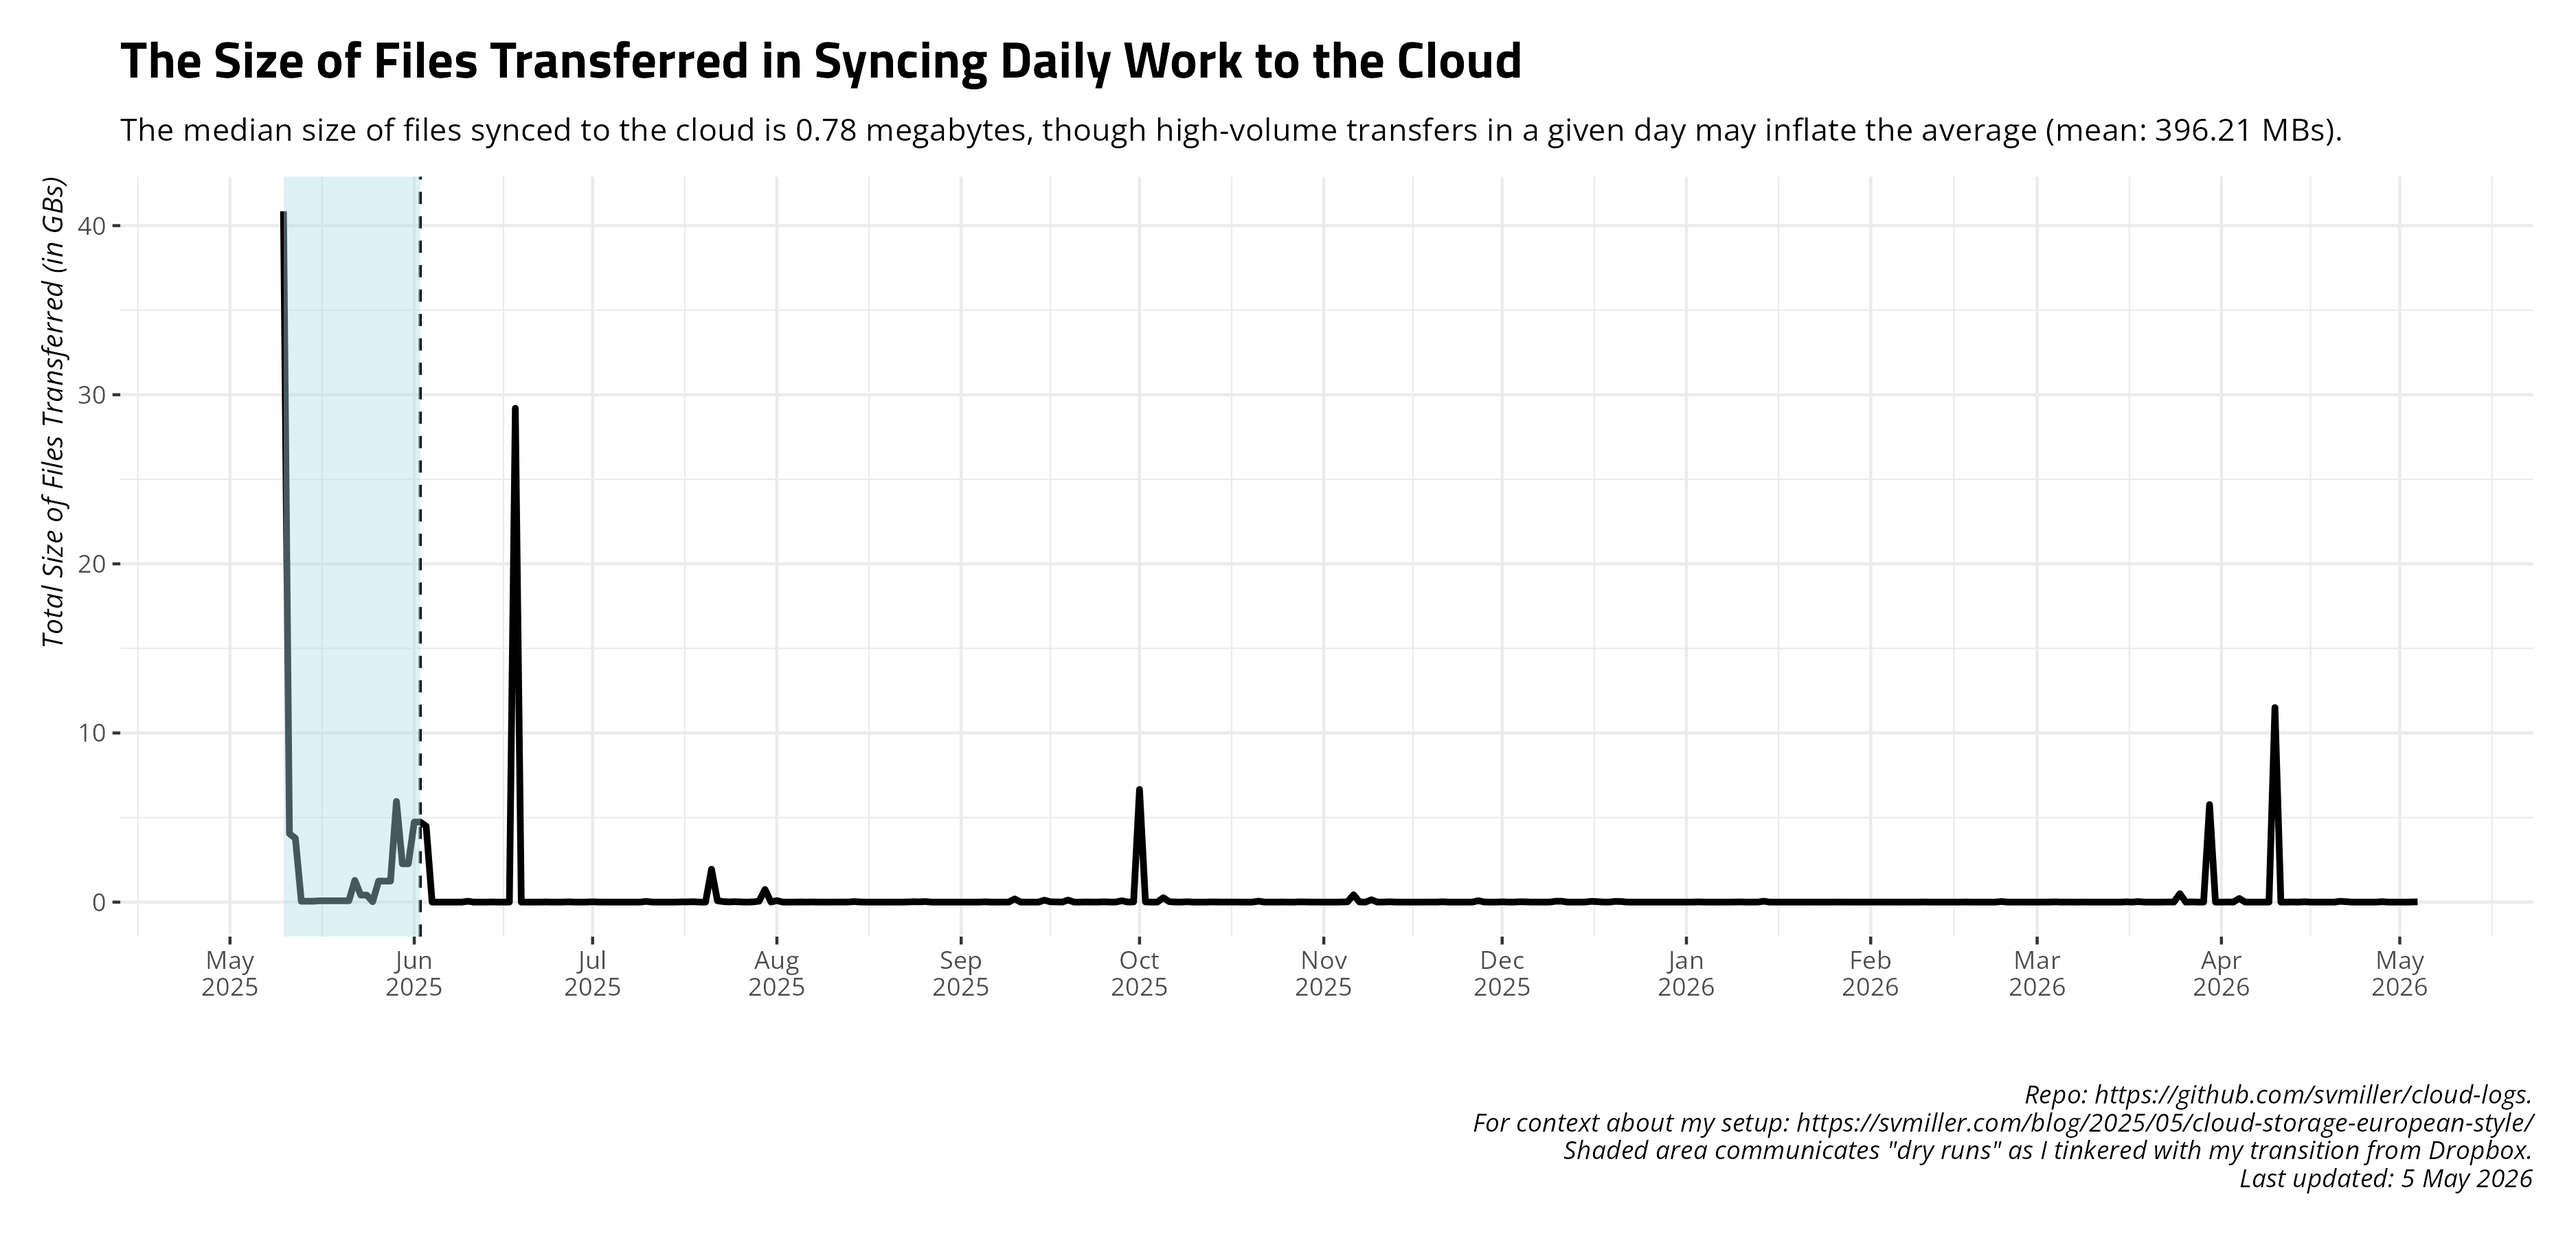
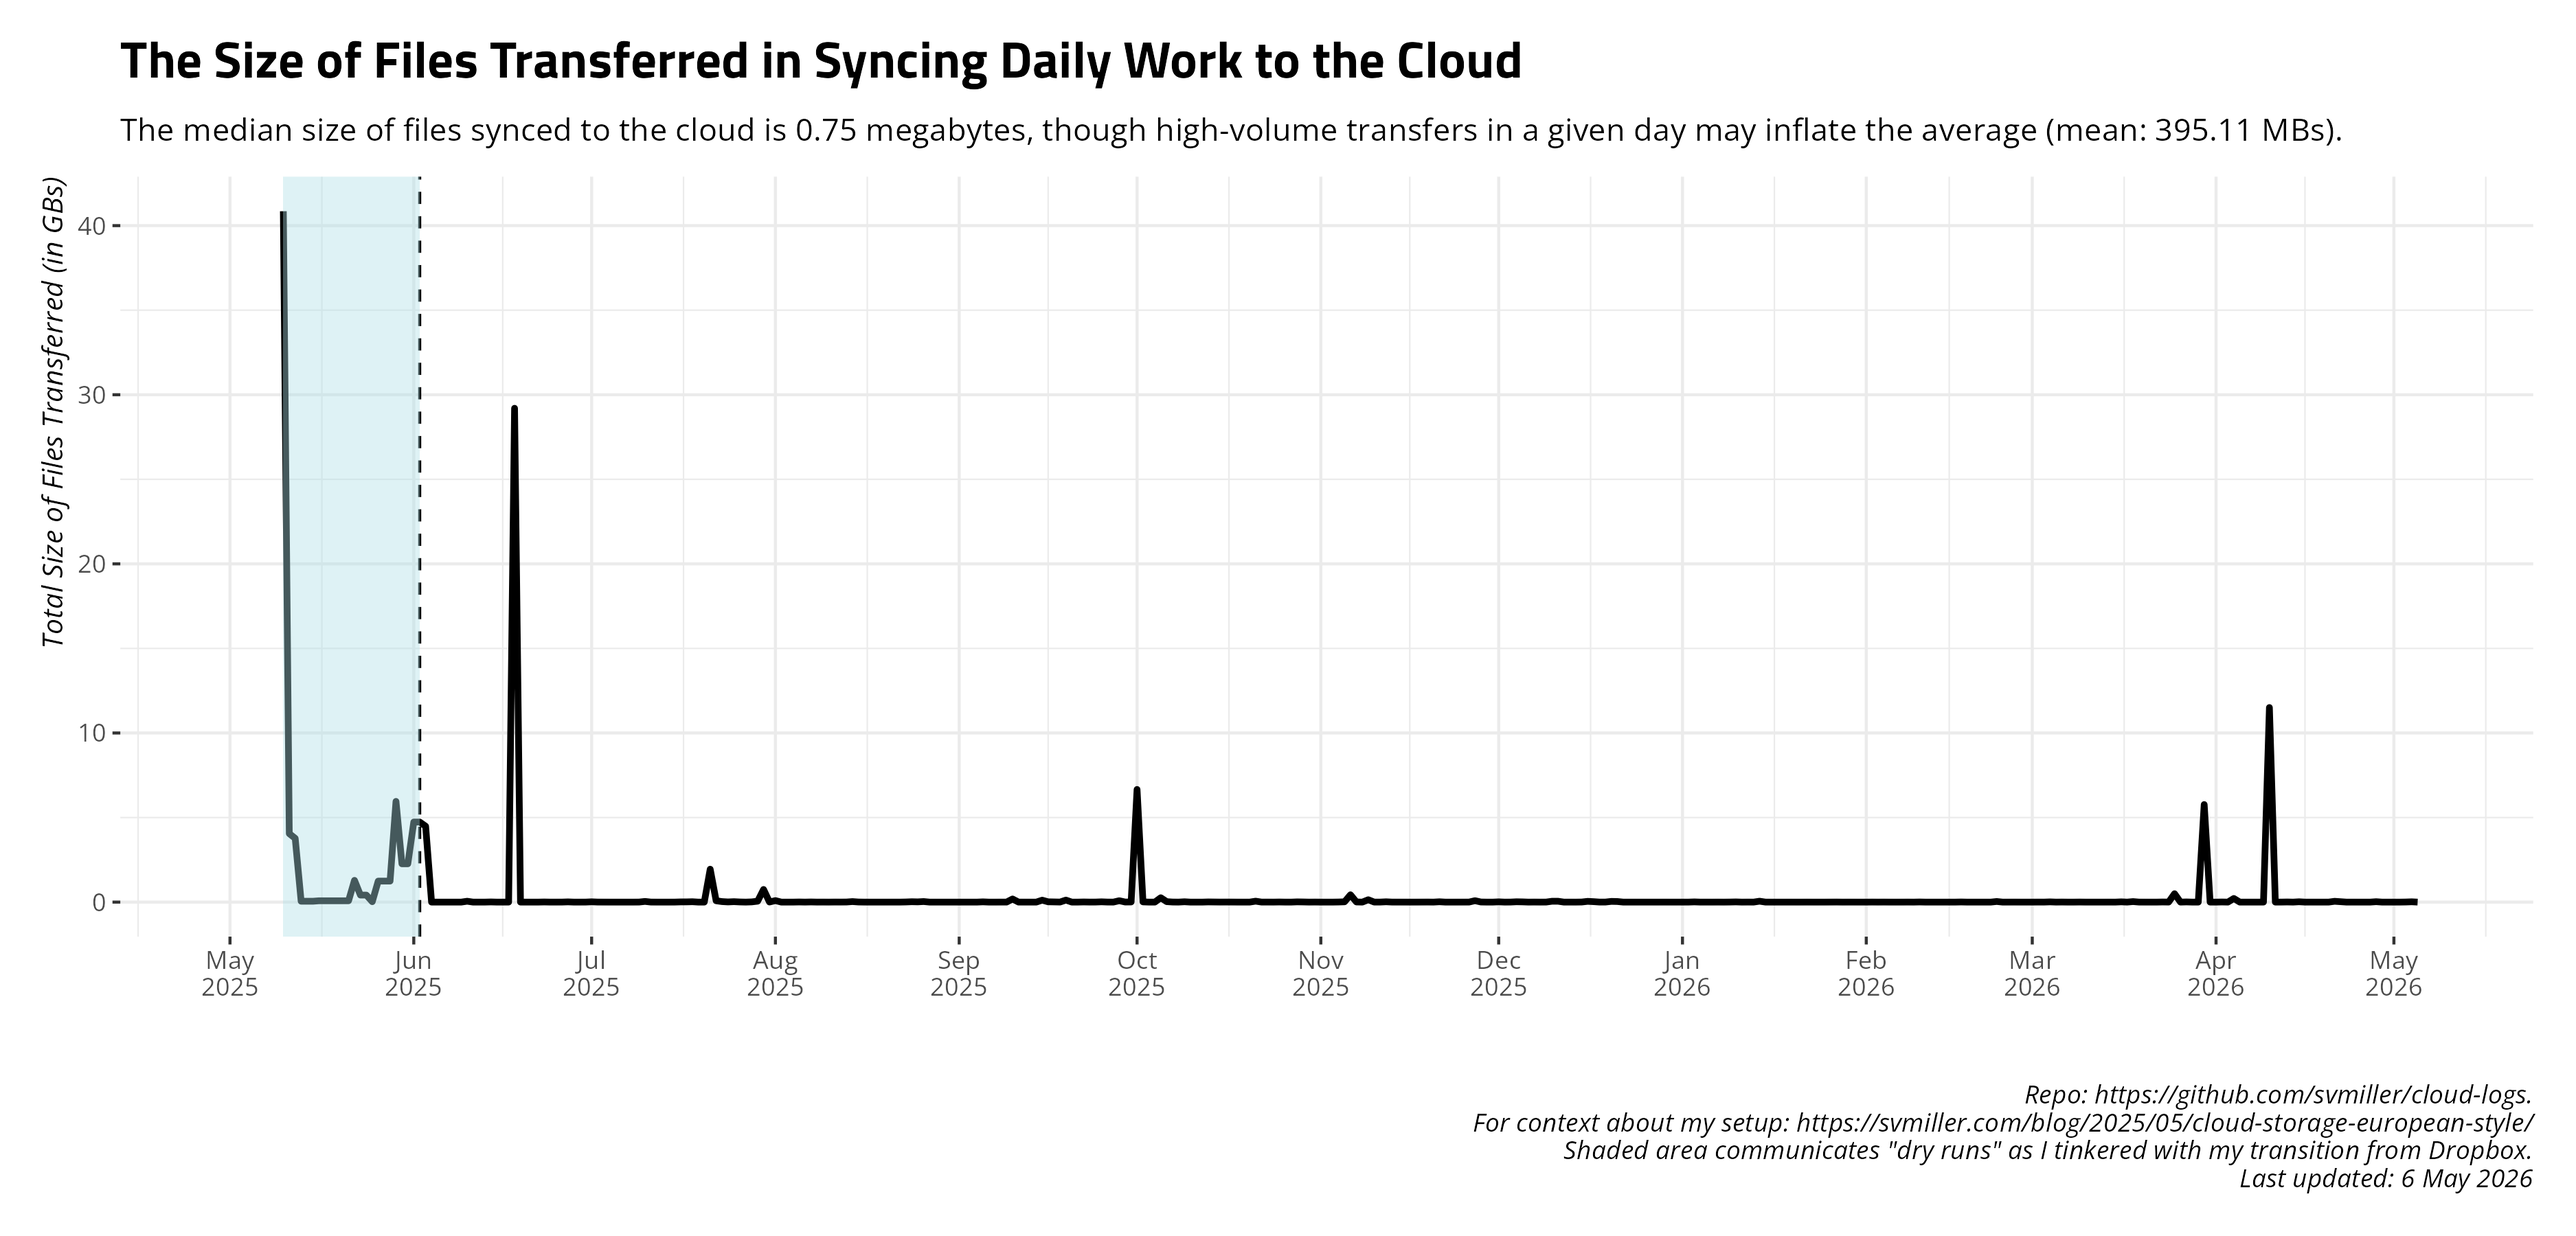
Date: 2026-05-06 09:00:29. Hi mom!

diff --git a/README.md b/README.md
@@ -27,17 +27,17 @@ and uploads to Github.
     #> # A tibble: 14 × 4
     #>    date       ftransfer stransfer   elapsed
     #>    <date>         <dbl> <chr>       <chr>  
-    #>  1 2026-04-21        37 48.112 MiB  5m16.4s
-    #>  2 2026-04-22         2 23.825 MiB  5m17.3s
-    #>  3 2026-04-23         0 <NA>        5m13.8s
-    #>  4 2026-04-24        63 494.966 KiB 4m27.8s
-    #>  5 2026-04-25         0 <NA>        5m15.6s
-    #>  6 2026-04-26         0 <NA>        5m13.9s
-    #>  7 2026-04-27         0 <NA>        4m22.7s
-    #>  8 2026-04-28       100 24.243 MiB  5m28.1s
-    #>  9 2026-04-29        11 127.409 KiB 5m17.3s
-    #> 10 2026-04-30         1 6.233 KiB   5m12.5s
-    #> 11 2026-05-01         0 <NA>        5m13.2s
-    #> 12 2026-05-02         0 <NA>        5m10.8s
-    #> 13 2026-05-03        34 5.418 MiB   4m58.6s
-    #> 14 2026-05-04        17 17.933 MiB  5m23.6s
+    #>  1 2026-04-22         2 23.825 MiB  5m17.3s
+    #>  2 2026-04-23         0 <NA>        5m13.8s
+    #>  3 2026-04-24        63 494.966 KiB 4m27.8s
+    #>  4 2026-04-25         0 <NA>        5m15.6s
+    #>  5 2026-04-26         0 <NA>        5m13.9s
+    #>  6 2026-04-27         0 <NA>        4m22.7s
+    #>  7 2026-04-28       100 24.243 MiB  5m28.1s
+    #>  8 2026-04-29        11 127.409 KiB 5m17.3s
+    #>  9 2026-04-30         1 6.233 KiB   5m12.5s
+    #> 10 2026-05-01         0 <NA>        5m13.2s
+    #> 11 2026-05-02         0 <NA>        5m10.8s
+    #> 12 2026-05-03        34 5.418 MiB   4m58.6s
+    #> 13 2026-05-04        17 17.933 MiB  5m23.6s
+    #> 14 2026-05-05         7 10.022 KiB  4m5.5s
